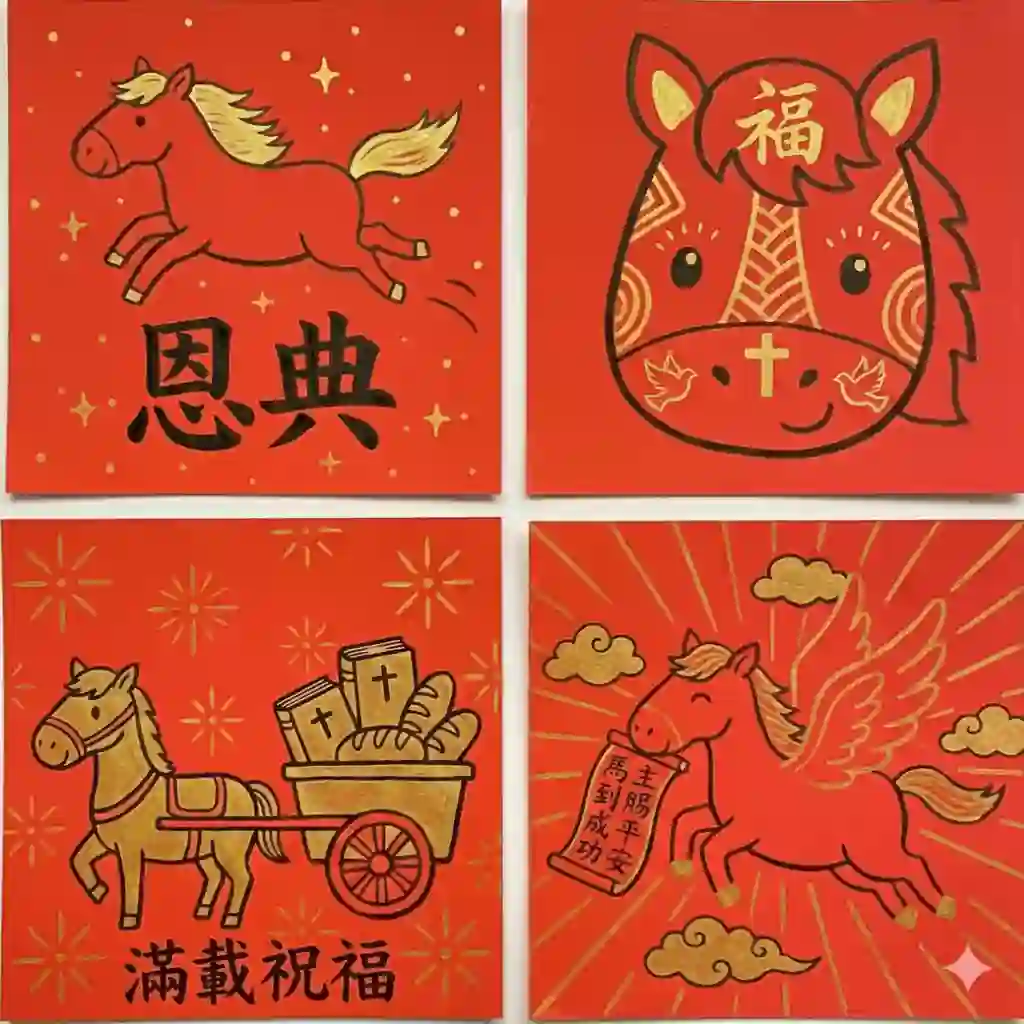
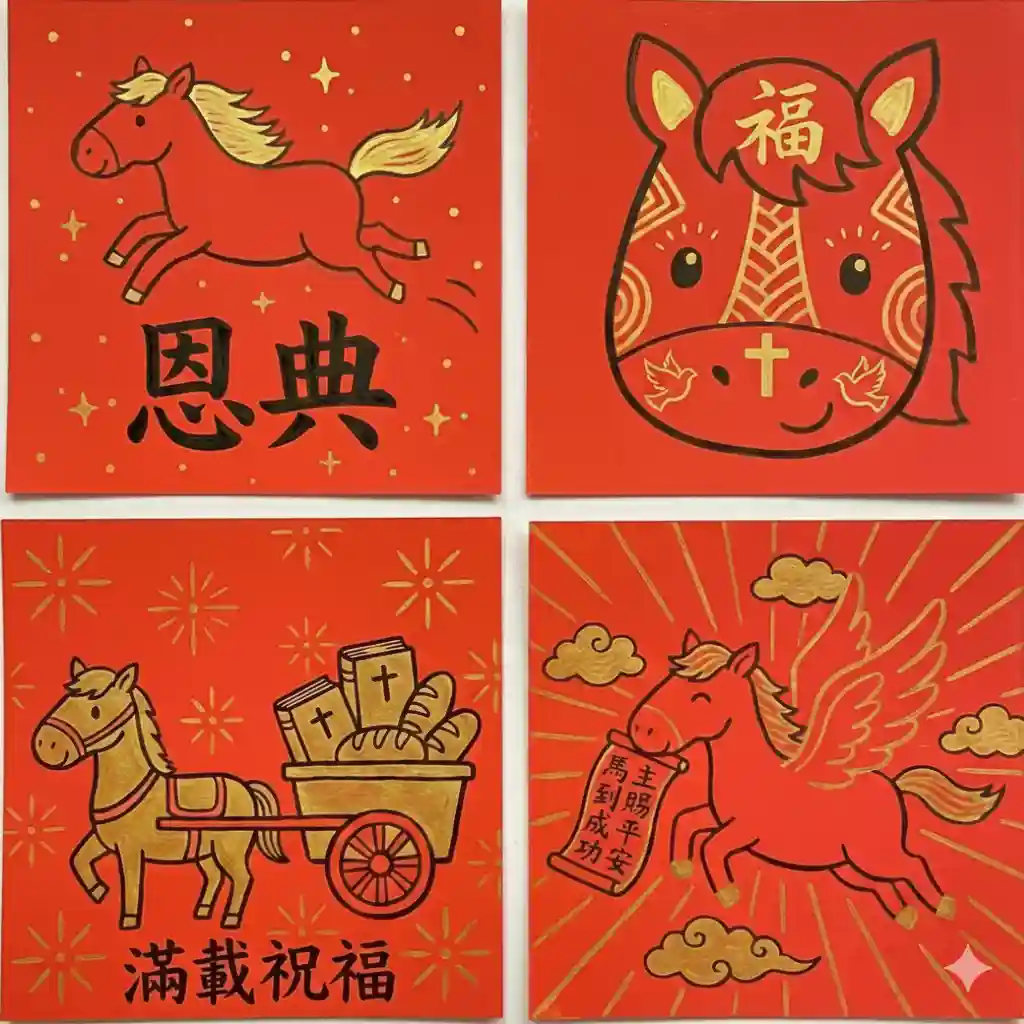
測試字體壓縮路徑

diff --git a/public/images/image2webp.py b/public/images/image2webp.py
@@ -13,5 +13,5 @@ def compress_and_convert_image(source_filename, target_filename, quality=80):
         img.save(target_path, 'webp', quality=quality)
 
 # Example: Compress and convert test.jpg to test.webp
-compress_and_convert_image('春聯-創意.png', '春聯-創意.webp', quality=5)
-compress_and_convert_image('春聯-楷書.png', '春聯-楷書.webp', quality=5)
+compress_and_convert_image('春聯-創意.png', '春聯-創意.webp', quality=20)
+compress_and_convert_image('春聯-楷書.png', '春聯-楷書.webp', quality=20)
